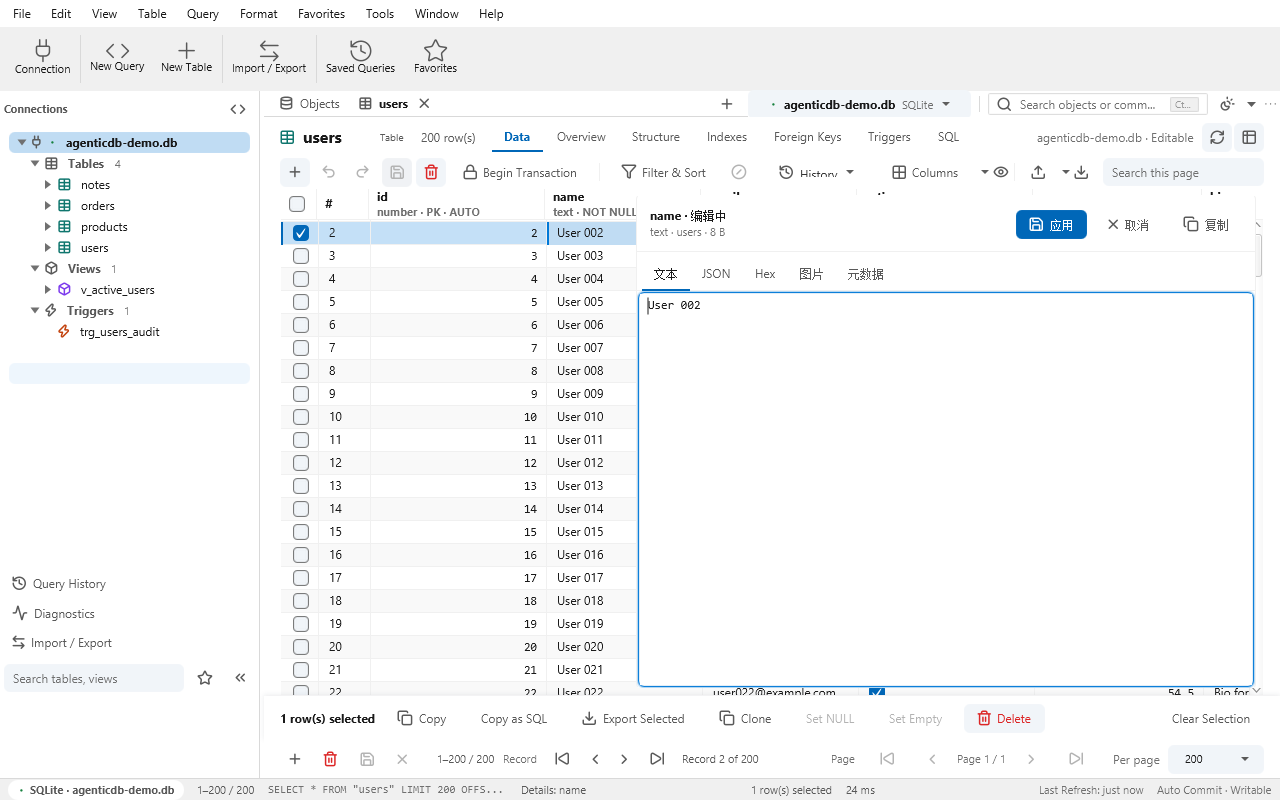
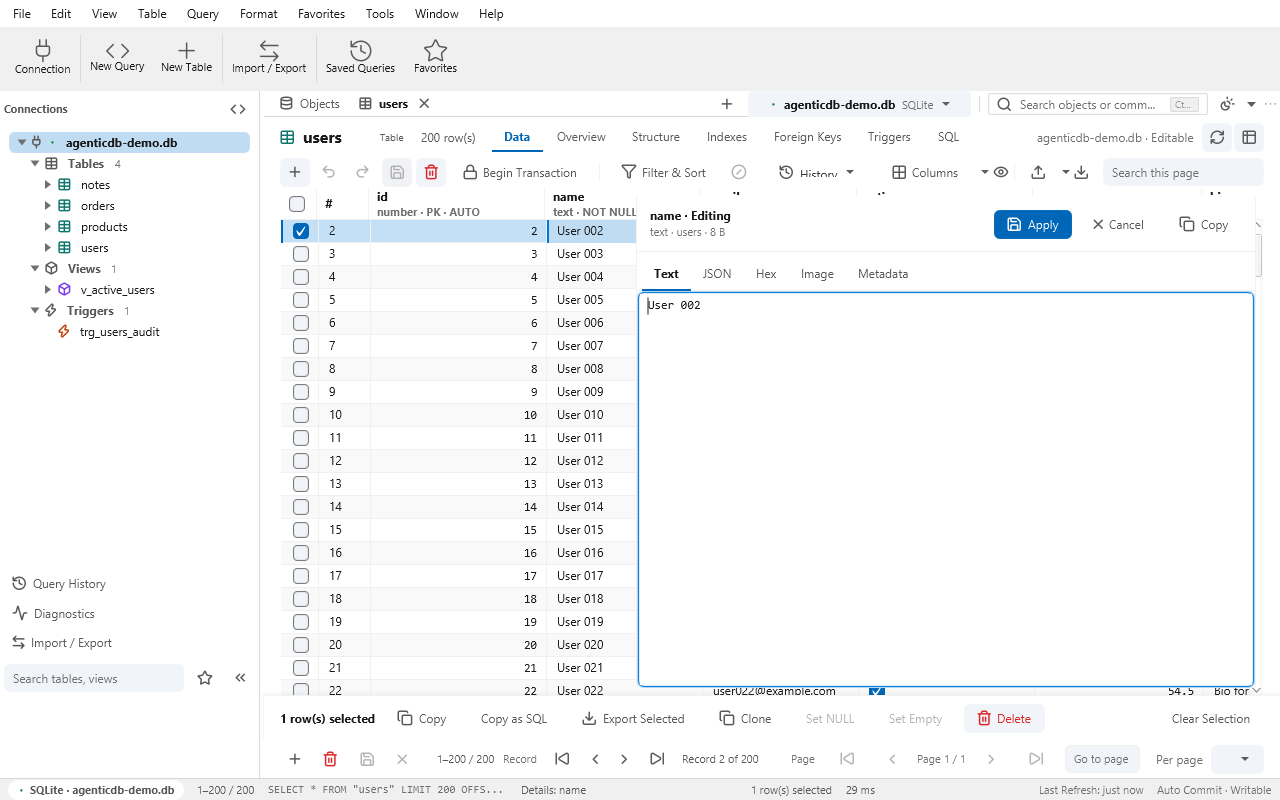
feat(ui): R34 N1-b 第十三批 —— 单元格抽屉抽干净（39 → 0），棘轮 569 → 530
- CellDetailsDrawer 39 条 CJK 字面量全部入资源包（新增 20 键 details.*，复用 11 键
  双侧全等：tab.close / common.cancel / menu.edit / action.edit.copy / menu.table /
  detail.type / detail.primaryKey / structure.col.nullable / structure.col.default /
  column.comment / newtable.col.length）；资源包 1085 → 1105 键
- ⭐ 「编辑中」标题恢复原来靠 title.getText().endsWith(" · 编辑中") 文案匹配 ——
  翻译后必然失灵，改 titleShowsEditState 布尔标记（第八批「标题当路由键」同款教训落地）
- I18nAuditTest 棘轮 569 → 530；抽屉文案无测试钉（先 grep 补扫后跑测，批次十二教训）
- 验收：全量 150 组 / 1180 条 / 0 失败 / 0 错误 / 134 类持平；p2-cell 重拍目视全英
  （「name · Editing」标题 + Text/JSON/Hex/Image/Metadata 页签 + Apply/Cancel/Copy）；
  p2-details 同步重拍（右侧面板中文属 ObjectDetailsPanel，后续批次）

push 仍未授权。

diff --git a/ui/adb-ui-shell/src/main/java/io/agenticdb/ui/shell/CellDetailsDrawer.java b/ui/adb-ui-shell/src/main/java/io/agenticdb/ui/shell/CellDetailsDrawer.java
@@ -1,5 +1,6 @@
 package io.agenticdb.ui.shell;
 
+import io.agenticdb.ui.I18n;
 import io.agenticdb.ui.Icons;
 import io.agenticdb.model.ColumnDef;
 import io.agenticdb.model.ColumnType;
@@ -36,21 +37,21 @@ import java.util.Map;
  */
 final class CellDetailsDrawer extends VBox {
 
-    private final Label title = new Label("单元格详情");
+    private final Label title = new Label(I18n.t("details.title"));
     private final Label subtitle = new Label();
-    private final Button close = IconButtons.icon(Icons.Icon.CLOSE, "关闭");
-    private final Button copy = IconButtons.of(Icons.Icon.COPY, "复制");
+    private final Button close = IconButtons.icon(Icons.Icon.CLOSE, I18n.t("tab.close"));
+    private final Button copy = IconButtons.of(Icons.Icon.COPY, I18n.t("action.edit.copy"));
     private final TabPane tabs = new TabPane();
     private final TextArea textArea = new TextArea();
     private final TextArea jsonArea = new TextArea();
     private final TextArea hexArea = new TextArea();
     private final StackPane imageBox = new StackPane();
     private final GridPane metadata = new GridPane();
-    private final Tab textTab = new Tab("文本");
+    private final Tab textTab = new Tab(I18n.t("details.tab.text"));
     private final Tab jsonTab = new Tab("JSON");
     private final Tab hexTab = new Tab("Hex");
-    private final Tab imageTab = new Tab("图片");
-    private final Tab metaTab = new Tab("元数据");
+    private final Tab imageTab = new Tab(I18n.t("details.tab.image"));
+    private final Tab metaTab = new Tab(I18n.t("details.tab.metadata"));
 
     private ColumnDef definition;
     private Object value;
@@ -66,14 +67,16 @@ final class CellDetailsDrawer extends VBox {
     // ⭐ UX-4：长文本 / JSON / CLOB 的多行编辑器。
     //   格子里那条单行输入框改不了 3KB 的 JSON —— 换行看不见、左右拖来拖去。
     //   这里把抽屉的文本 / JSON 页变成可写的，Ctrl+Enter 应用、Esc 取消。
-    private final Button edit = IconButtons.of(Icons.Icon.EDIT, "编辑");
-    private final Button apply = IconButtons.of(Icons.Icon.SAVE, "应用");
-    private final Button cancel = IconButtons.of(Icons.Icon.CLOSE, "取消");
+    private final Button edit = IconButtons.of(Icons.Icon.EDIT, I18n.t("menu.edit"));
+    private final Button apply = IconButtons.of(Icons.Icon.SAVE, I18n.t("details.action.apply"));
+    private final Button cancel = IconButtons.of(Icons.Icon.CLOSE, I18n.t("common.cancel"));
     private java.util.function.Consumer<String> onApply = text -> { };
     private java.util.function.Predicate<ColumnDef> editGate = column -> false;
     private boolean editing;
     /** ⭐ 编辑中的那一个区域 —— 不能靠「当前选中的页」反推，换页会把提交目标换掉。 */
     private TextArea editingArea;
+    /** ⭐ 标题是否被 startEdit 改成了编辑态 —— 用标记，别对翻译后的文案做 endsWith。 */
+    private boolean titleShowsEditState;
 
     CellDetailsDrawer() {
         getStyleClass().add("adb-details");
@@ -91,34 +94,34 @@ final class CellDetailsDrawer extends VBox {
 
         close.setId("data-details-close");
         close.getStyleClass().addAll("adb-icon-button", "adb-details__close");
-        close.setTooltip(new javafx.scene.control.Tooltip("关闭详情 (Esc)"));
+        close.setTooltip(new javafx.scene.control.Tooltip(I18n.t("details.tooltip.close")));
         // 4.5-6 / 4.5-5：读屏软件要能读出「关闭」，
         // 且 ✕ 的语义必须与标签栏的 ✕ 一致（一个符号只表一个意思）。
-        close.setAccessibleText("关闭");
+        close.setAccessibleText(I18n.t("tab.close"));
         close.setOnAction(event -> close());
 
         copy.getStyleClass().addAll("adb-button", "adb-button--ghost");
-        copy.setTooltip(new javafx.scene.control.Tooltip("复制当前 Tab 内容"));
+        copy.setTooltip(new javafx.scene.control.Tooltip(I18n.t("details.tooltip.copy")));
         copy.setOnAction(event -> copyCurrent());
 
         edit.setId("data-details-edit");
         edit.getStyleClass().addAll("adb-button", "adb-button--ghost");
         edit.setTooltip(new javafx.scene.control.Tooltip(
-                "在这格里直接改长文本 / JSON（Ctrl+Enter 应用，Esc 取消）"));
+                I18n.t("details.tooltip.edit")));
         edit.setVisible(false);
         edit.setManaged(false);
         edit.setOnAction(event -> startEdit());
 
         apply.setId("data-details-apply");
         apply.getStyleClass().addAll("adb-button", "adb-button--primary");
-        apply.setTooltip(new javafx.scene.control.Tooltip("应用修改 (Ctrl+Enter)"));
+        apply.setTooltip(new javafx.scene.control.Tooltip(I18n.t("details.tooltip.apply")));
         apply.setVisible(false);
         apply.setManaged(false);
         apply.setOnAction(event -> commit());
 
         cancel.setId("data-details-cancel");
         cancel.getStyleClass().addAll("adb-button", "adb-button--ghost");
-        cancel.setTooltip(new javafx.scene.control.Tooltip("放弃这次编辑 (Esc)"));
+        cancel.setTooltip(new javafx.scene.control.Tooltip(I18n.t("details.tooltip.cancel")));
         cancel.setVisible(false);
         cancel.setManaged(false);
         cancel.setOnAction(event -> stopEditing());
@@ -320,10 +323,11 @@ final class CellDetailsDrawer extends VBox {
         }
         editing = true;
         editingArea = area;
+        titleShowsEditState = true;
         area.setText(value == null ? "" : String.valueOf(value));
         area.setEditable(true);
         area.setWrapText(true);
-        title.setText(definition.name() + " · 编辑中");
+        title.setText(I18n.t("details.title.editing", definition.name()));
         flip(true);
         area.requestFocus();
     }
@@ -361,9 +365,11 @@ final class CellDetailsDrawer extends VBox {
                 load(area == textArea ? textTab : jsonTab);
             }
         }
-        if (definition != null && title.getText() != null
-                && title.getText().endsWith(" · 编辑中")) {
-            title.setText(definition.name());
+        if (titleShowsEditState) {
+            titleShowsEditState = false;
+            if (definition != null) {
+                title.setText(definition.name());
+            }
         }
         flip(false);
     }
@@ -406,13 +412,13 @@ final class CellDetailsDrawer extends VBox {
     private void loadImage() {
         imageBox.getChildren().clear();
         if (!(value instanceof byte[] bytes) || bytes.length == 0) {
-            imageBox.getChildren().add(new Label("当前值不是二进制图片"));
+            imageBox.getChildren().add(new Label(I18n.t("details.image.notBinary")));
             return;
         }
         try {
             Image image = new Image(new ByteArrayInputStream(bytes));
             if (image.isError() || image.getWidth() <= 0) {
-                throw new IllegalArgumentException("不是可识别的图片格式");
+                throw new IllegalArgumentException(I18n.t("details.image.unrecognized"));
             }
             ImageView view = new ImageView(image);
             view.setPreserveRatio(true);
@@ -424,33 +430,38 @@ final class CellDetailsDrawer extends VBox {
             size.getStyleClass().add("adb-muted");
             imageBox.getChildren().add(new VBox(8, view, size));
         } catch (RuntimeException e) {
-            imageBox.getChildren().add(new Label("不是可识别的图片格式"));
+            imageBox.getChildren().add(new Label(I18n.t("details.image.unrecognized")));
         }
     }
 
     private void loadMetadata() {
         metadata.getChildren().clear();
         int row = 0;
-        addMeta("表", tableName, row++);
-        addMeta("列", definition.name(), row++);
-        addMeta("类型", definition.type().name(), row++);
-        addMeta("可空", definition.nullable() ? "是" : "否", row++);
-        addMeta("主键", definition.primaryKey() ? "是" : "否", row++);
+        addMeta(I18n.t("menu.table"), tableName, row++);
+        addMeta(I18n.t("details.meta.column"), definition.name(), row++);
+        addMeta(I18n.t("detail.type"), definition.type().name(), row++);
+        addMeta(I18n.t("structure.col.nullable"),
+                definition.nullable() ? I18n.t("details.meta.yes")
+                        : I18n.t("details.meta.no"), row++);
+        addMeta(I18n.t("detail.primaryKey"),
+                definition.primaryKey() ? I18n.t("details.meta.yes")
+                        : I18n.t("details.meta.no"), row++);
         if (definition.charMaxLength() != null) {
-            addMeta("长度", String.valueOf(definition.charMaxLength()), row++);
+            addMeta(I18n.t("newtable.col.length"),
+                    String.valueOf(definition.charMaxLength()), row++);
         }
         if (definition.numericPrecision() != null) {
-            addMeta("精度", definition.numericPrecision()
+            addMeta(I18n.t("details.meta.precision"), definition.numericPrecision()
                     + (definition.numericScale() == null ? ""
                     : "," + definition.numericScale()), row++);
         }
         if (definition.defaultValue() != null) {
-            addMeta("默认值", definition.defaultValue(), row++);
+            addMeta(I18n.t("structure.col.default"), definition.defaultValue(), row++);
         }
         if (definition.comment() != null && !definition.comment().isBlank()) {
-            addMeta("注释", definition.comment(), row++);
+            addMeta(I18n.t("column.comment"), definition.comment(), row++);
         }
-        addMeta("字节数", value instanceof byte[] bytes
+        addMeta(I18n.t("details.meta.bytes"), value instanceof byte[] bytes
                 ? String.valueOf(bytes.length)
                 : value == null ? "0" : String.valueOf(String.valueOf(value)
                 .getBytes(StandardCharsets.UTF_8).length), row++);
@@ -478,15 +489,14 @@ final class CellDetailsDrawer extends VBox {
             return "";
         }
         if (value instanceof byte[] bytes) {
-            return "二进制数据 · " + CellRenderer.sizeLabel(bytes.length)
-                    + "\n请切换到 Hex 或图片 Tab 查看。";
+            return I18n.t("details.text.binary", CellRenderer.sizeLabel(bytes.length));
         }
         if (value == null) {
             // 和格子里同一套写法：括号的是「状态」，裸 NULL 留给**字面量就是 NULL 的文本**。
-            return "(NULL)\n\n这是一条 NULL 值，不是空串，也不是内容为 \"NULL\" 的文本。";
+            return I18n.t("details.text.null");
         }
         if (value instanceof String text && text.isEmpty()) {
-            return "空串\n\n这是一个长度为 0 的字符串，不是 NULL。";
+            return I18n.t("details.text.empty");
         }
         if (definition.type() == ColumnType.JSON) {
             return CellRenderer.prettyJson(value);

diff --git a/ui/adb-ui-shell/src/test/java/io/agenticdb/ui/shell/I18nAuditTest.java b/ui/adb-ui-shell/src/test/java/io/agenticdb/ui/shell/I18nAuditTest.java
@@ -73,7 +73,7 @@ class I18nAuditTest {
      * 而本类是先 {@code stripComments} 再计数。口径不同的两个数放在一起，
      * 只会让人以为棘轮又涨了。
      */
-    private static final int CJK_CEILING = 569;
+    private static final int CJK_CEILING = 530;
 
     /**
      * ⭐ R34 N1-b 第七批补的第三把尺：<b>模型层</b>（core / workbench）的汉字字面量。
